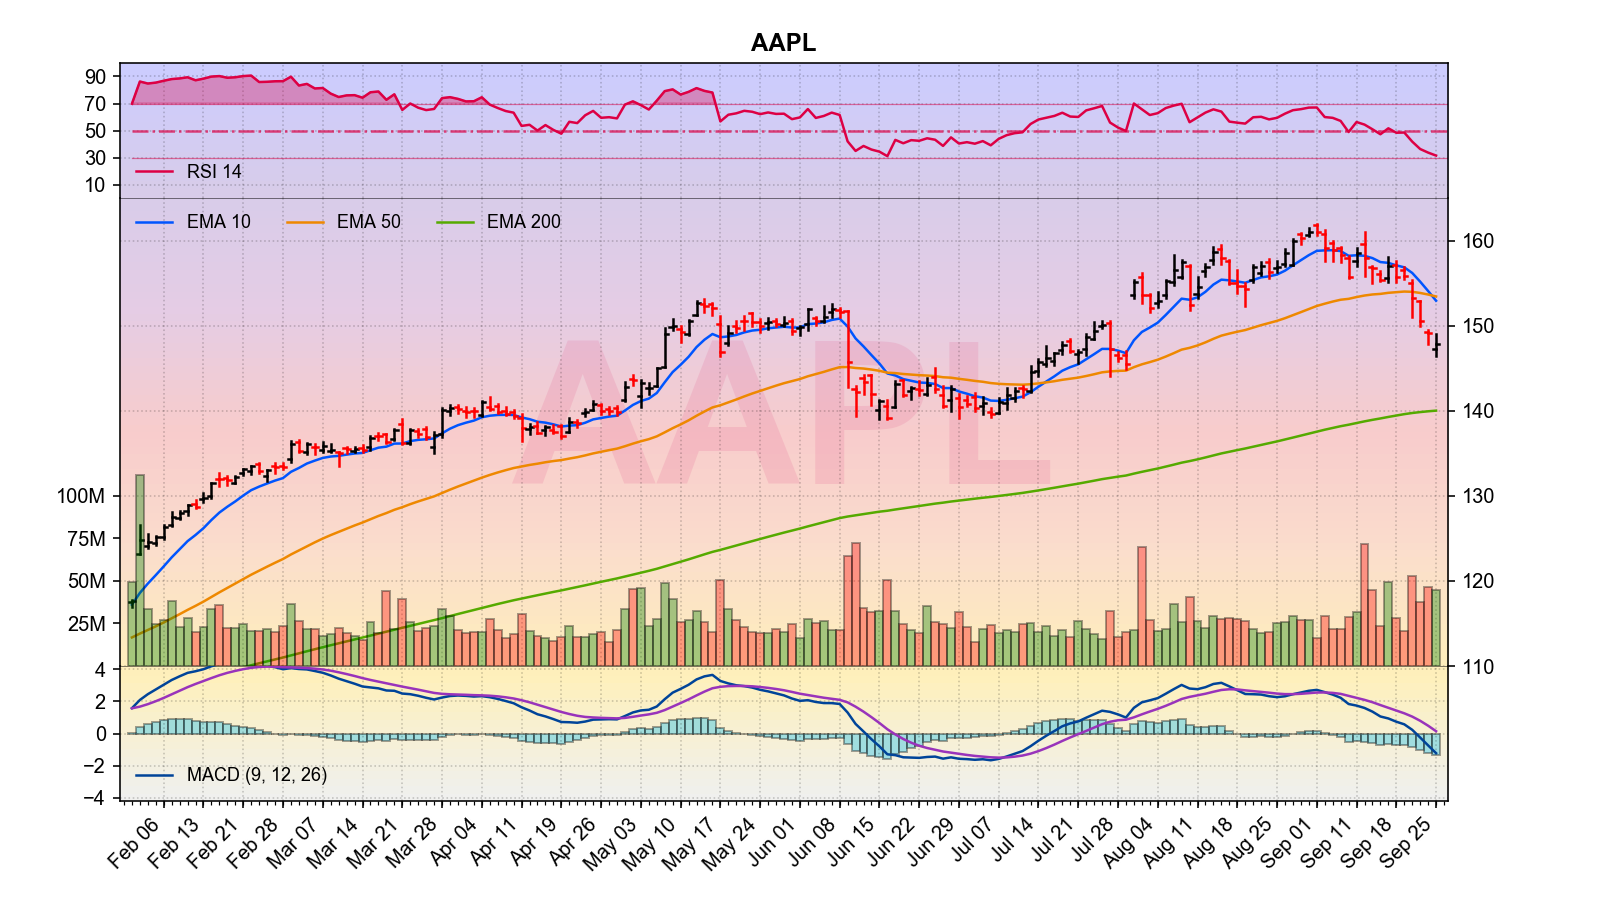
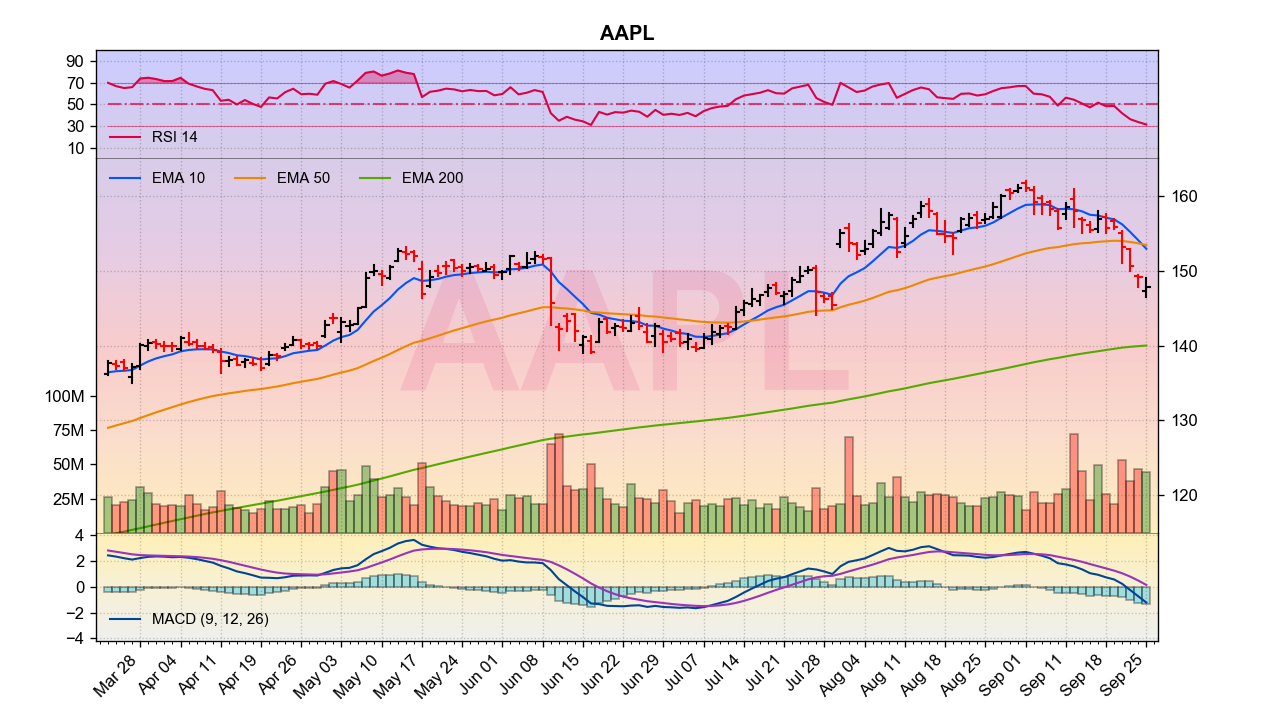
More examples in help text

diff --git a/plot.py b/plot.py
@@ -111,11 +111,12 @@ if __name__ == '__main__':
 
     examples:
     
-    python plot.py AAPL
+    python plot.py NVDA
     python plot.py FB AMZN
+    python plot.py -s AAPL
     python plot.py -x TSLA
-    python plot.py -n -o NVDA TSLA
-    python plot.py -e 2017-09-25 AAPL
+    python plot.py -n -o GOOG MSFT
+    python plot.py -e 2017-09-25 -s AAPL
     python plot.py -e 2017-12-31 NVDA TSLA GOOG
     '''
     parser = argparse.ArgumentParser(prog = 'plot', usage = usage)
@@ -142,7 +143,9 @@ if __name__ == '__main__':
     if args.pdf:
         args.format = 'pdf'
     if args.small:
-        args.figsize = None
+        args.figsize = '(10.6667, 6)'
+        args.dpi = 120
+        args.days = 130
     if args.extra_large:
         args.figsize = '(10, 5.625)'
         args.dpi = 256
